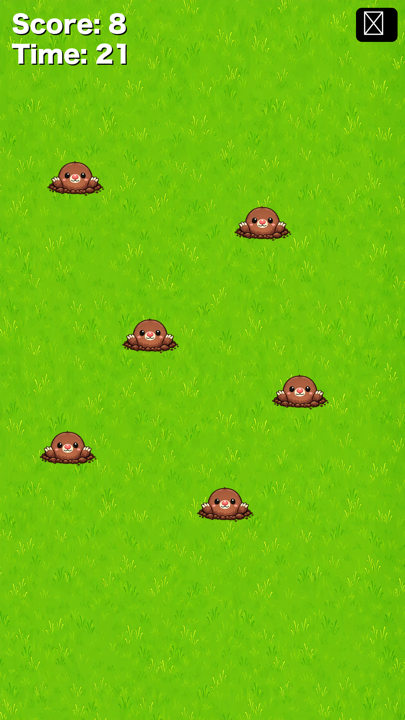
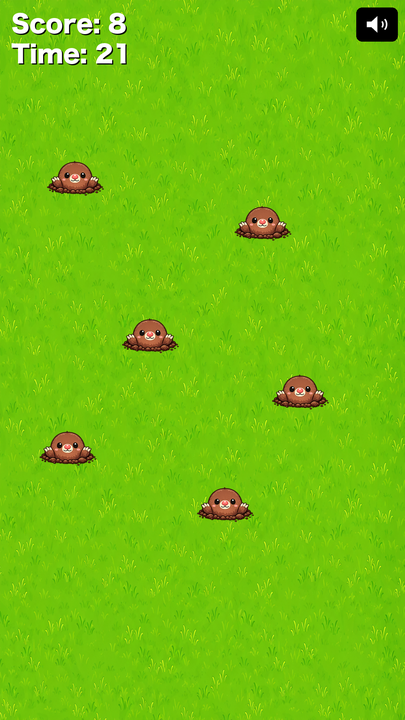
[修正] 概要スクショのサウンドアイコン化＋トップにブランドアイコン表示
- mole-whack 概要「世界観」の画像: 文字化けの×ボタンをサウンドONアイコンに差し替え
- ルート index.html の「PixelRyu」直下に円形ブランドアイコンを表示(レスポンシブ)
- icon.png を Web 用に最適化 (1254px/1.4MB → 384px/約207KB)

diff --git a/index.html b/index.html
@@ -44,6 +44,13 @@
   }
   .lang-switch select option { background: #0d1428; color: #e4ebf5; }
   .logo-wrap { margin-bottom: 24px; }
+  .brand-icon {
+    width: 132px;
+    height: 132px;
+    display: block;
+    margin: 22px auto 0;
+    filter: drop-shadow(0 6px 18px rgba(0, 0, 0, 0.45));
+  }
   h1 {
     font-size: 72px;
     margin: 0;
@@ -119,6 +126,7 @@
   }
   @media (max-width: 600px) {
     h1 { font-size: 56px; }
+    .brand-icon { width: 104px; height: 104px; }
     .container { padding: 60px 24px; }
     .lang-switch { top: 16px; right: 16px; }
   }
@@ -131,6 +139,7 @@
   </div>
   <div class="logo-wrap">
     <h1>PixelRyu</h1>
+    <img src="icon.png" alt="PixelRyu" class="brand-icon">
   </div>
   <div class="tagline" data-i18n="tagline">Calm cosmic puzzle games</div>
 
